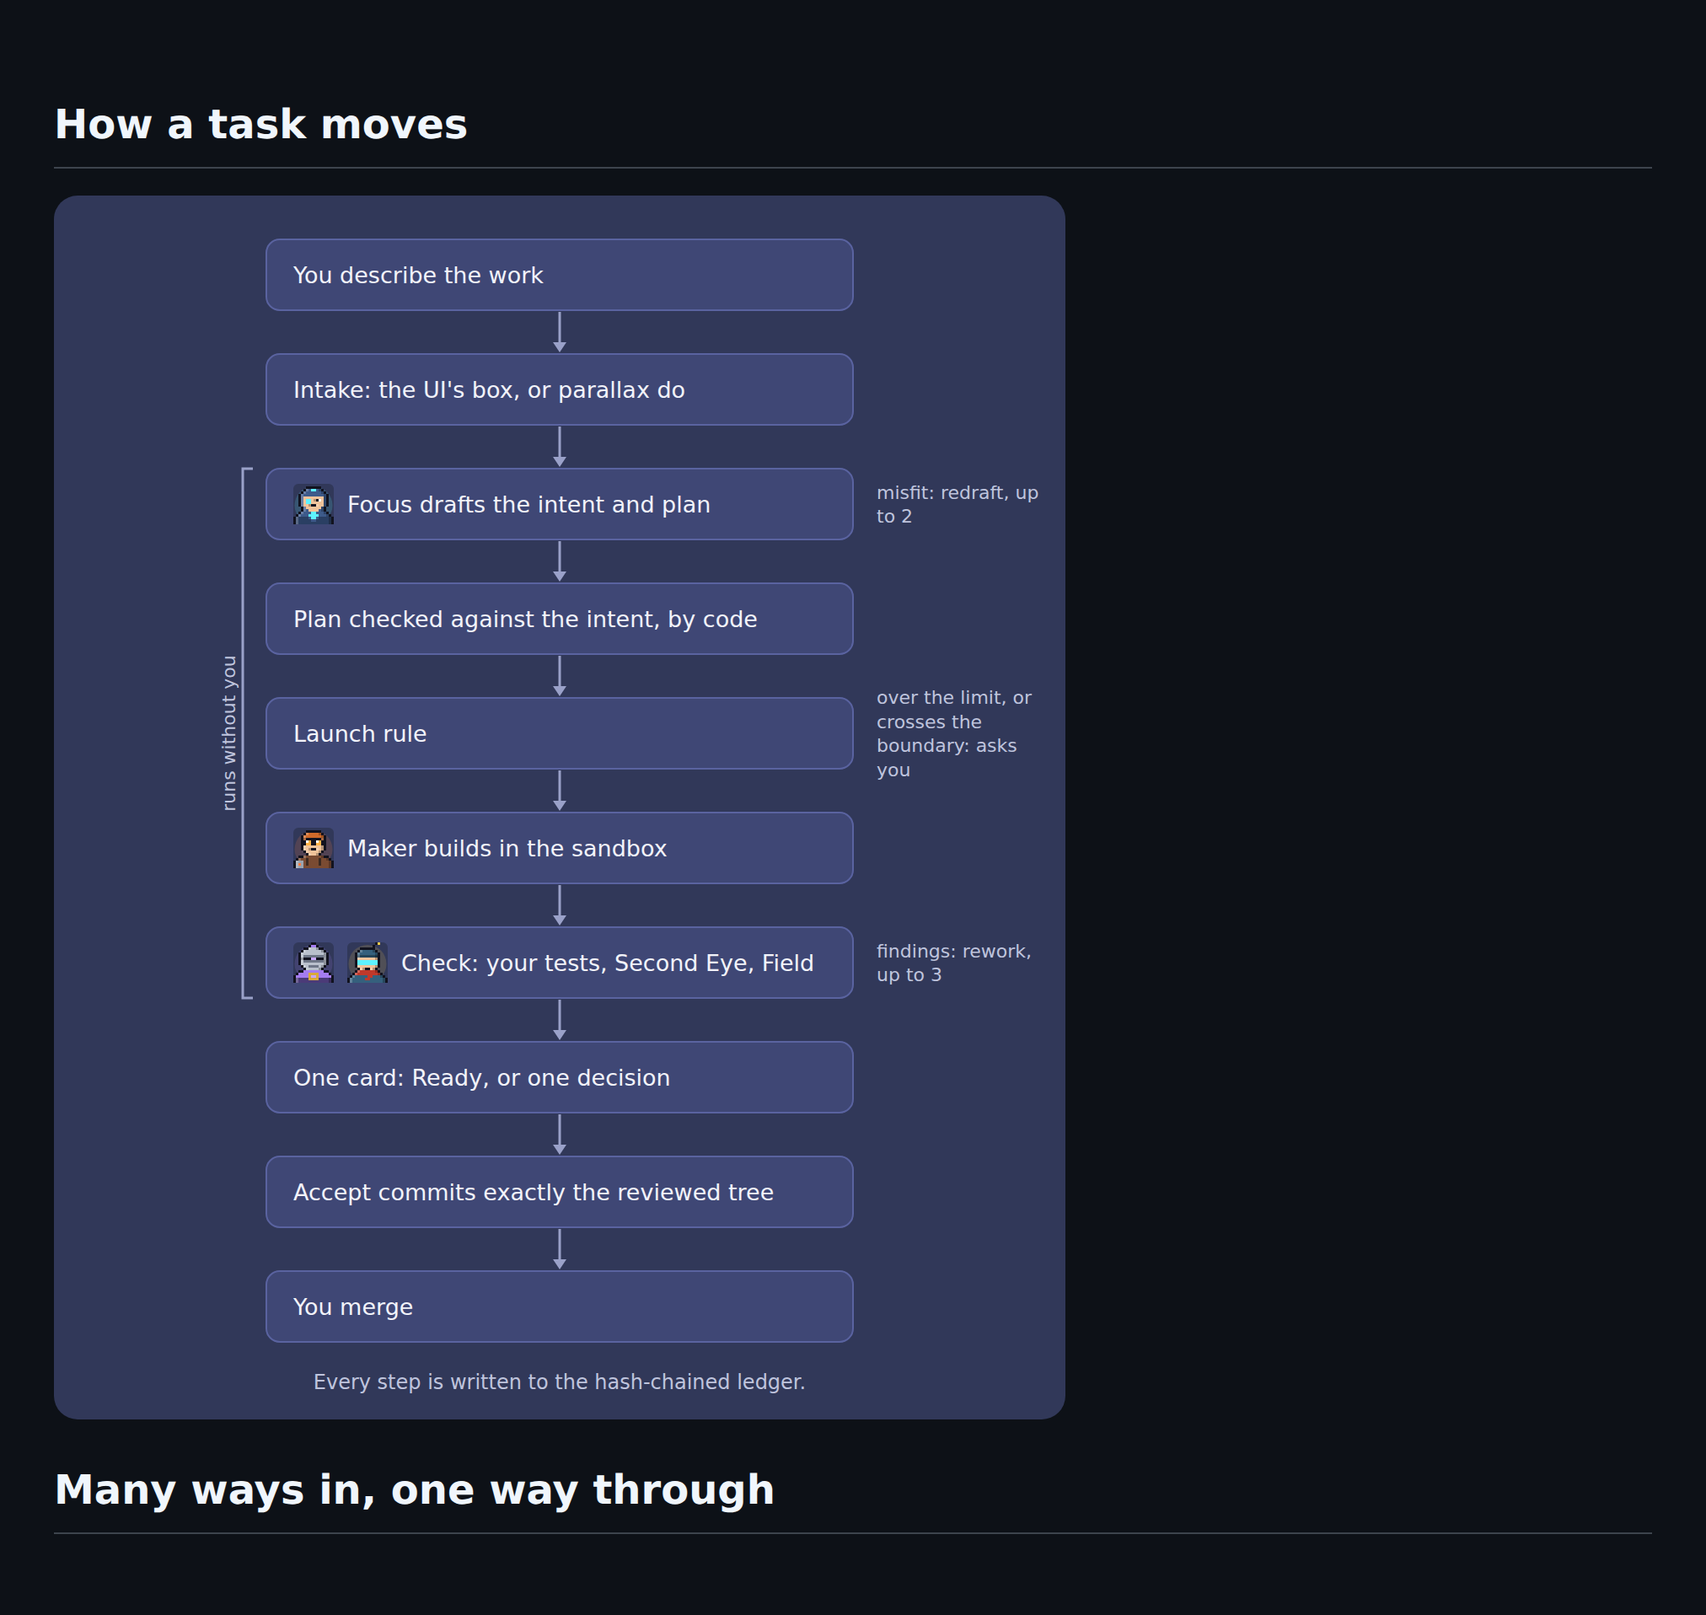
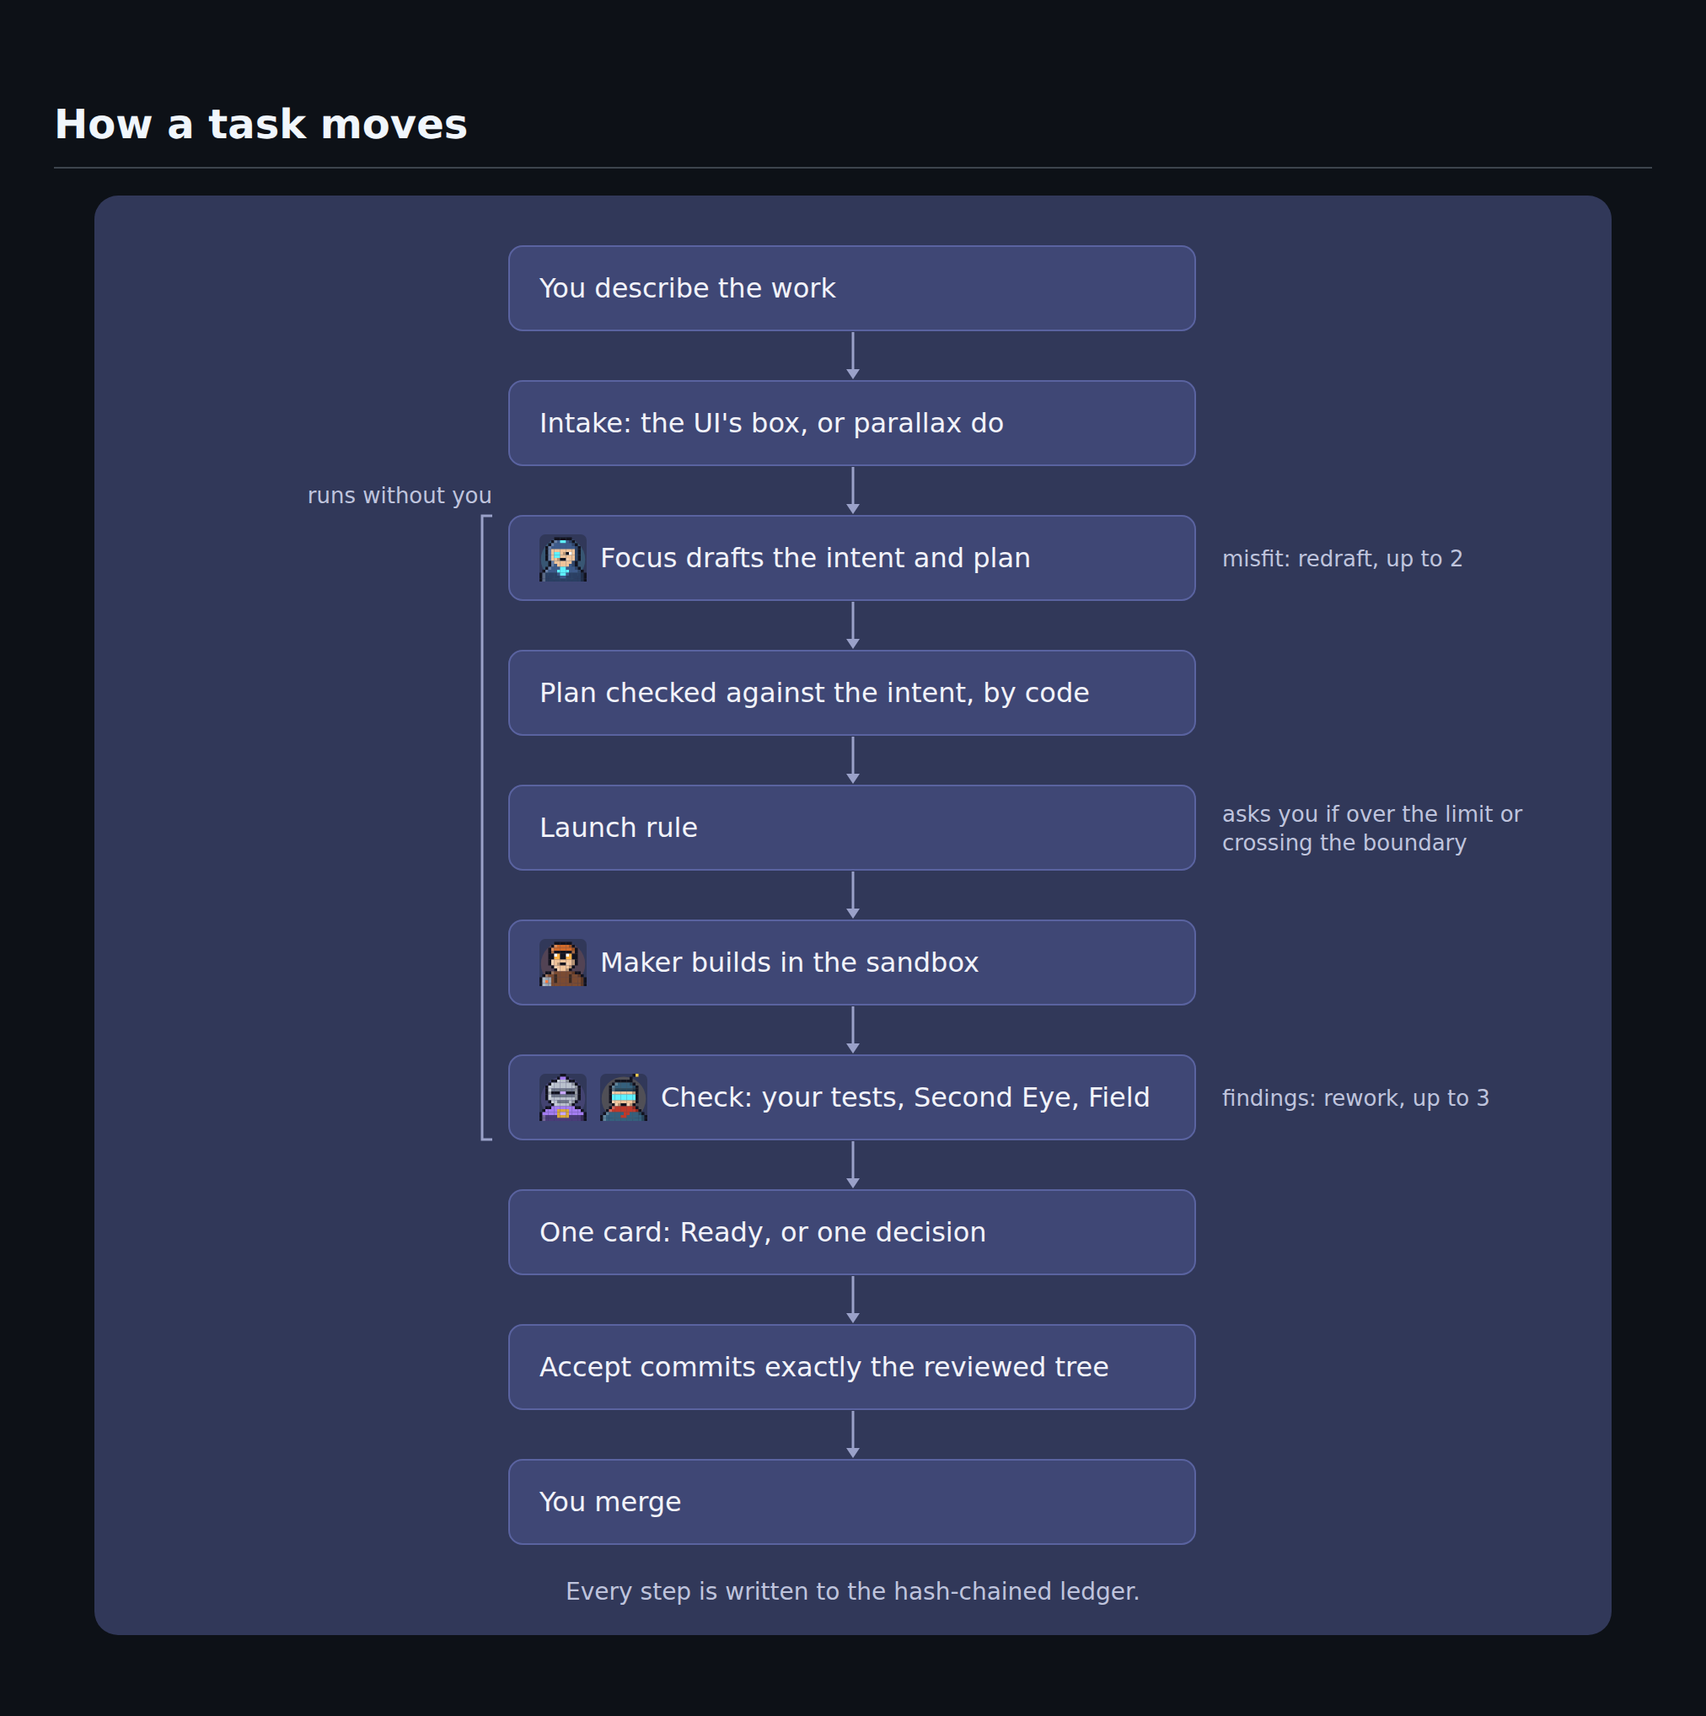
README brand pass: the flow at column width, the animated lockup, agents that take turns
The flow diagram is 900 wide with README-size text, centred in a paragraph so it scales down on a
phone; the side notes are shorter and fit one or two lines in a wider column; the bracket label is
horizontal at the top of the bracket. docs/brand/lockup-animated.svg is the drifting P with
"parallax" beside it in the UI header's own font stack and ink colors, sized from the text and
checked in a browser; it replaces the mark and the heading at the top of the README.
docs/brand/party-animated.svg has the four agents take turns in order, one at a time, with a
pause, and nothing moving under prefers-reduced-motion; the sentence under it says so. Every
image comes from brand.py through ASSETS; the tests check the files match, the reduced-motion
rules, that no two portraits move at once, that no note wraps past two lines, and that nothing
is rotated. Screenshots of the README's top, agents and flow sections at GitHub's width in both
schemes, and the flow at phone width, are under docs/ui-runs/final-ui/.

diff --git a/parallax/brand.py b/parallax/brand.py
@@ -184,7 +184,7 @@ FLOW_STEPS = [  # (text, portraits, side note)
     ("Intake: the UI's box, or parallax do", (), ""),
     ("Focus drafts the intent and plan", ("focus",), "misfit: redraft, up to 2"),
     ("Plan checked against the intent, by code", (), ""),
-    ("Launch rule", (), "over the limit, or crosses the boundary: asks you"),
+    ("Launch rule", (), "asks you if over the limit or crossing the boundary"),
     ("Maker builds in the sandbox", ("maker",), ""),
     ("Check: your tests, Second Eye, Field", ("second_eye", "field"), "findings: rework, up to 3"),
     ("One card: Ready, or one decision", (), ""),
@@ -218,14 +218,14 @@ def _wrap(text: str, size: float, width: float) -> list[str]:
 
 def flow_svg() -> str:
     """How a task moves, drawn: sized from the text, on the brand tile, portraits from the same data."""
-    W, size, note_size = 600, 13.5, 11
-    pad_x, box_h, gap, pic = 16, 42, 26, 24
+    W, size, note_size = 900, 16, 13   # the README column's width, and its body text size
+    pad_x, box_h, gap, pic = 18, 50, 30, 28
     widest = max(_text_width(text, size) + 2 * pad_x + len(pics) * (pic + 8) for text, pics, _ in FLOW_STEPS)
     box_w = int(widest + 0.5)
     col_x = (W - box_w) // 2
-    note_x = col_x + box_w + 14
-    note_w = W - note_x - 12
-    top = 26
+    note_x = col_x + box_w + 16
+    note_w = W - note_x - 10
+    top = 30
     parts = [f'<svg xmlns="http://www.w3.org/2000/svg" viewBox="0 0 {W} {{H}}" width="{W}" height="{{H}}" '
              f'role="img" aria-label="How a task moves: from your words through Focus, the plan check, the launch rule, '
              f'Maker, the check and one card to your accept and your merge, every step on the ledger" '
@@ -262,21 +262,85 @@ def flow_svg() -> str:
     # the bracket on the left for the steps that run without you, with a short label along it
     first, last = WITHOUT_YOU
     by1, by2 = centers[first] - box_h / 2, centers[last] + box_h / 2
-    bx = col_x - 14
+    bx = col_x - 16
     parts.append(f'<path class="bracket" d="M{bx + 6} {by1} H{bx} V{by2} H{bx + 6}" fill="none" stroke="{FLOW_COLORS["line"]}" stroke-width="1.5"/>')
-    lx, ly = bx - 8, (by1 + by2) / 2
-    parts.append(f'<text class="bracket-label" x="{lx}" y="{ly:.1f}" transform="rotate(-90 {lx} {ly:.1f})" text-anchor="middle" '
-                 f'dominant-baseline="central" font-size="{note_size}" fill="{FLOW_COLORS["muted"]}">runs without you</text>')
-    ly2 = y - gap + 24
+    parts.append(f'<text class="bracket-label" x="{bx + 6}" y="{by1 - 12:.1f}" text-anchor="end" dominant-baseline="central" '
+                 f'font-size="{note_size}" fill="{FLOW_COLORS["muted"]}">runs without you</text>')
+    ly2 = y - gap + 28
     parts.append(f'<text class="ledger" x="{W / 2}" y="{ly2}" text-anchor="middle" dominant-baseline="central" font-size="{note_size + 1}" '
                  f'fill="{FLOW_COLORS["muted"]}">Every step is written to the hash-chained ledger.</text>')
-    H = int(ly2 + 22)
+    H = int(ly2 + 26)
     parts.append("</svg>")
     return "".join(parts).replace("{H}", str(H))
 
 
+# the lockup: the animated P with the word beside it, in the UI's own wordmark font and color ----------------
+
+WORD_FONT = "ui-monospace, SFMono-Regular, Menlo, Consolas, monospace"  # app.css --mono, the header's .word
+WORD_INK = {"light": "#1c1c1a", "dark": "#ecebe6"}  # app.css --ink in each scheme, which .word inherits
+WORD_EM = 0.66  # a monospace advance is about 0.6em; the lockup test measures the real thing
+
+
+def lockup_svg() -> str:
+    """The animated P (as mark-animated.svg) and "parallax" beside it, centred on the P, sized from the text."""
+    size = 10.5
+    word_w = WORD_EM * size * len("parallax")
+    gap = 5
+    w = LOGO_W + gap + word_w + 2
+    height = 72
+    return (f'<svg xmlns="http://www.w3.org/2000/svg" viewBox="0 0 {w:.1f} {LOGO_H}" height="{height}" '
+            f'width="{round(height * w / LOGO_H)}" shape-rendering="crispEdges" role="img" aria-label="Parallax">'
+            + DRIFT
+            + f'<style>.word{{font-family:{WORD_FONT};font-weight:600;letter-spacing:0.01em;fill:{WORD_INK["light"]}}}'
+            f'@media (prefers-color-scheme: dark){{.word{{fill:{WORD_INK["dark"]}}}}}</style>'
+            + logo_body()
+            + f'<text class="word" x="{LOGO_W + gap}" y="{LOGO_H / 2}" dominant-baseline="central" font-size="{size}">parallax</text>'
+            "</svg>")
+
+
+TURN, PAUSE = 1.5, 1.5  # seconds each agent moves, and the rest with all four still
+
+
+def party_windows() -> list[tuple[float, float]]:
+    """(start, end) in seconds of each agent's turn, in order; they never overlap."""
+    return [(n * TURN, (n + 1) * TURN) for n in range(len(AGENTS))]
+
+
+def _turn_keyframes(name: str, start: float, end: float, total: float, prop: str, rest: str, moves: list[str], step: float) -> str:
+    """Keyframes that hold `rest` outside [start, end) and alternate `moves` inside it, every `step` seconds."""
+    frames, t = [f"0%{{{prop}:{rest}}}"], start
+    n = 0
+    while t < end - 1e-9:
+        frames.append(f"{t / total * 100:.3f}%{{{prop}:{moves[n % len(moves)]}}}")
+        t += step
+        n += 1
+    frames.append(f"{end / total * 100:.3f}%{{{prop}:{rest}}}")
+    frames.append(f"100%{{{prop}:{rest}}}")
+    return f"@keyframes {name}{{{''.join(frames)}}}"
+
+
+def party_animated_svg() -> str:
+    """party.svg where the agents take turns, in order, the way a task moves through them: one at a
+    time bobs one pixel in two steps and its glow letters pulse, then the next; a pause; repeat; and
+    with prefers-reduced-motion nothing moves."""
+    total = len(AGENTS) * TURN + PAUSE
+    css = []
+    for n, (start, end) in enumerate(party_windows()):
+        css.append(_turn_keyframes(f"bob{n}", start, end, total, "transform", "translateY(0)", ["translateY(-1px)", "translateY(0)"], 0.3))
+        css.append(_turn_keyframes(f"glow{n}", start, end, total, "opacity", "1", ["0.45", "1"], 0.375))
+        css.append(f".a{n} .bust{{animation:bob{n} {total}s steps(1,end) infinite}}.a{n} .glow{{animation:glow{n} {total}s steps(1,end) infinite}}")
+    css.append("@media (prefers-reduced-motion: reduce){.bust,.glow{animation:none}}")
+    svg = party_svg().replace("<style>", "<style>" + "".join(css), 1)
+    for n, key in enumerate(AGENTS):
+        body = portrait_body(key)
+        assert body in svg
+        svg = svg.replace(body, f'<g class="agent a{n}"><g class="bust">{body}</g></g>', 1)
+    return svg
+
+
 ASSETS = {"logo.svg": lambda: logo_svg(word=True), "mark.svg": lambda: logo_svg(), "party.svg": party_svg,
-          "mark-animated.svg": lambda: logo_svg(animated=True), "flow.svg": flow_svg}
+          "mark-animated.svg": lambda: logo_svg(animated=True), "flow.svg": flow_svg,
+          "lockup-animated.svg": lockup_svg, "party-animated.svg": party_animated_svg}
 
 
 def write_assets(folder: Path) -> list[Path]:

diff --git a/tests/test_brand.py b/tests/test_brand.py
@@ -94,10 +94,12 @@ def test_the_readme_images_and_the_ui_come_from_the_same_data():
         assert bundle["agents"][key]["svg"] == brand.portrait_body(key)
         assert bundle["agents"][key]["svg"] in brand.party_svg()
     assert set(bundle["agents"]) == set(brand.AGENTS)
-    assert set(brand.ASSETS) == {"logo.svg", "mark.svg", "party.svg", "mark-animated.svg", "flow.svg"}
+    assert set(brand.ASSETS) == {"logo.svg", "mark.svg", "party.svg", "mark-animated.svg", "flow.svg",
+                                 "lockup-animated.svg", "party-animated.svg"}
     readme = (ROOT / "README.md").read_text(encoding="utf-8")
-    assert "docs/brand/mark-animated.svg" in readme and "docs/brand/party.svg" in readme and "docs/brand/flow.svg" in readme
-    assert "```mermaid" not in readme
+    for used in ("docs/brand/lockup-animated.svg", "docs/brand/party-animated.svg", "docs/brand/flow.svg"):
+        assert used in readme, used
+    assert "```mermaid" not in readme and "# Parallax\n" not in readme  # the lockup is the heading
     social = (ROOT / "docs" / "brand" / "social.html").read_text(encoding="utf-8")
     assert brand.logo_body() in social and "Agents do the work. You make the calls." in social
 
@@ -129,3 +131,41 @@ def test_stages_follow_the_ledger():
     assert [(s["agent"], s["state"]) for s in live.stages(with_field, waiting=False)][-1] == ("field", "working")
     assert live.agent_of("Maker reworking (1 of 3)") == "maker" and live.agent_of("running the plan's tests") is None
     assert not re.search(r"drafter|checker|tester", " ".join(a["name"] for a in brand.AGENTS.values()), re.I)
+
+
+def test_the_lockup_is_the_animated_mark_with_the_uis_wordmark():
+    svg = brand.lockup_svg()
+    assert brand.logo_body() in svg and brand.DRIFT in svg  # the P and its drift, exactly as mark-animated.svg
+    assert "@media (prefers-reduced-motion: reduce){.l1,.l2{animation:none}}" in svg
+    assert 'font-family:ui-monospace, SFMono-Regular, Menlo, Consolas, monospace;font-weight:600' in svg  # app.css --mono, .word
+    assert "fill:#1c1c1a" in svg and "@media (prefers-color-scheme: dark){.word{fill:#ecebe6}}" in svg  # app.css --ink
+    assert 'aria-label="Parallax"' in svg
+    for name in ("mark.svg", "mark-animated.svg", "logo.svg"):
+        assert "parallax</text>" not in (ROOT / "docs" / "brand" / name).read_text() or name == "logo.svg"
+
+
+def test_the_party_takes_turns_and_only_one_agent_moves_at_a_time():
+    svg = brand.party_animated_svg()
+    assert "@media (prefers-reduced-motion: reduce){.bust,.glow{animation:none}}" in svg
+    windows = brand.party_windows()
+    assert len(windows) == 4 and all(a[1] <= b[0] for a, b in zip(windows, windows[1:]))  # in order, never overlapping
+    total = 4 * brand.TURN + brand.PAUSE
+    # from the keyframes themselves: every moment at which an agent is not at rest belongs to one agent only
+    moving: dict[int, list[float]] = {}
+    for n in range(4):
+        for prop, rest in (("bob", "translateY(0)"), ("glow", "1")):
+            block = re.search(rf"@keyframes {prop}{n}\{{(.*?)\}}(?=@keyframes|\.a|$)", svg).group(1)
+            frames = re.findall(r"([\d.]+)%\{[a-z]+:([^}]+)\}", block)
+            moving.setdefault(n, [])
+            for pct, value in frames:
+                if value != rest:
+                    moving[n].append(float(pct) / 100 * total)
+    for a in range(4):
+        for b in range(a + 1, 4):
+            assert not (set(round(x, 3) for x in moving[a]) & set(round(x, 3) for x in moving[b])), (a, b)
+        lo, hi = windows[a]
+        assert all(lo <= x < hi for x in moving[a]), f"agent {a} moves outside its turn"
+        assert moving[a], f"agent {a} never moves"
+    assert svg.count('class="agent a') == 4 and all(f".a{n} .bust{{animation:bob{n}" in svg for n in range(4))
+    assert "steps(1,end)" in svg
+    assert brand.party_svg() != svg and all(brand.portrait_body(k) in svg for k in brand.AGENTS)

diff --git a/tests/test_flow_diagram.py b/tests/test_flow_diagram.py
@@ -1,5 +1,6 @@
 """docs/brand/flow.svg, rendered in Chromium: every text fits its box with room, nothing overlaps."""
 import os
+import re
 from pathlib import Path
 
 import pytest
@@ -84,16 +85,49 @@ def test_nothing_overlaps_except_a_portrait_on_its_own_box(measured):
             assert not overlap(a, b), f"{name_a} overlaps {name_b}: {a} vs {b}"
 
 
+def test_notes_stay_on_at_most_two_lines_and_nothing_is_rotated():
+    svg = brand.flow_svg()
+    assert "rotate(" not in svg, "a label is rotated"
+    for m in re.finditer(r'<text class="note"[^>]*>(.*?)</text>', svg):
+        lines = m.group(1).count("<tspan")
+        assert lines <= 2, f"a side note wraps past two lines: {re.sub('<[^>]+>', '', m.group(1))!r}"
+    assert 'class="bracket-label"' in svg and 'text-anchor="end"' in svg
+
+
+def test_the_lockup_word_fits_the_image(measured_lockup):
+    word, image = measured_lockup["word"], measured_lockup["image"]
+    assert inside(word, image, 1), f"the word spills the lockup: {word} in {image}"
+    assert not overlap(word, measured_lockup["p"]), "the word runs into the P"
+    assert abs((word["t"] + word["b"]) / 2 - (image["t"] + image["b"]) / 2) < 4, "the word isn't centred on the P"
+
+
+@pytest.fixture(scope="module")
+def measured_lockup():
+    svg = (ROOT / "docs" / "brand" / "lockup-animated.svg").read_text(encoding="utf-8")
+    assert svg == brand.lockup_svg() + "\n"
+    with sync_playwright() as p:
+        try:
+            b = p.chromium.launch(executable_path=os.environ.get("PARALLAX_BROWSER") or None)
+        except Exception as err:
+            pytest.skip(f"Chromium can't start: {str(err).splitlines()[0]}")
+        pg = b.new_page(viewport={"width": 800, "height": 300})
+        pg.set_content(f'<html><body style="margin:0;padding:24px;background:#fff">{svg}</body></html>')
+        data = pg.evaluate("""() => { const svg = document.querySelector('svg');
+            const box = e => { const r = e.getBoundingClientRect(); return {l: r.left, t: r.top, r: r.right, b: r.bottom}; };
+            return {image: box(svg), word: box(svg.querySelector('.word')), p: box(svg.querySelector('.l1'))}; }""")
+        b.close()
+    return data
+
+
 def test_notes_sit_beside_their_boxes():
     """A side note is vertically centered on the box it belongs to, in the column to the right."""
     svg = brand.flow_svg()
-    import re
     boxes = {m.group(1): (float(m.group(2)), float(m.group(3))) for m in
              re.finditer(r'data-step="(\d+)"><rect class="box" x="([\d.]+)" y="([\d.]+)" width="([\d.]+)" height="([\d.]+)"', svg)}
     for m in re.finditer(r'<text class="note" data-step="(\d+)" x="([\d.]+)" y="([\d.]+)"', svg):
         step, x, y = m.group(1), float(m.group(2)), float(m.group(3))
         bx, by = boxes[step]
-        assert x > bx + 300, "the note is right of its box"
+        assert x > bx + 400, "the note is right of its box"
         lines = svg[m.end():].split("</text>", 1)[0].count("<tspan")
-        centre = y + (lines - 1) * 11 * 1.3 / 2
-        assert abs(centre - (by + 21)) < 1.0, f"note {step} isn't centred on its box"
+        centre = y + (lines - 1) * 13 * 1.3 / 2
+        assert abs(centre - (by + 25)) < 1.0, f"note {step} isn't centred on its box"

diff --git a/README.md b/README.md
@@ -1,6 +1,4 @@
-<p align="center"><img src="docs/brand/mark-animated.svg" alt="" width="70" height="80"></p>
-
-# Parallax
+<p align="center"><img src="docs/brand/lockup-animated.svg" alt="Parallax" height="72"></p>
 
 [![tests](https://github.com/mpwilso/parallax/actions/workflows/tests.yml/badge.svg?branch=master)](https://github.com/mpwilso/parallax/actions/workflows/tests.yml)
 
@@ -25,13 +23,13 @@ A local tool that runs Claude Code agents on your repo inside a sandbox, checks 
 
 ## The agents
 
-<img src="docs/brand/party.svg" alt="Focus, Maker, Second Eye and Field" width="450">
+<img src="docs/brand/party-animated.svg" alt="Focus, Maker, Second Eye and Field" width="450">
 
-**Focus** drafts the intent and plan. **Maker** builds in the sandbox. **Second Eye** is the blind checker: it sees only the result, never the making. **Field** is the UI tester, which uses your app in a real browser and leaves tests behind. In the UI a portrait moves only while its agent is working on that task; everything else is still.
+**Focus** drafts the intent and plan. **Maker** builds in the sandbox. **Second Eye** is the blind checker: it sees only the result, never the making. **Field** is the UI tester, which uses your app in a real browser and leaves tests behind. Here they take turns the way a task moves through them; in the UI a portrait moves only while its agent is working on that task, and everything else is still.
 
 ## How a task moves
 
-<img src="docs/brand/flow.svg" alt="How a task moves: your words go through Focus, the plan check by code, the launch rule, Maker in the sandbox and the check by your tests, Second Eye and Field, then come back as one card for your accept and your merge, with every step on the hash-chained ledger" width="600">
+<p align="center"><img src="docs/brand/flow.svg" width="900" alt="How a task moves: your words go through Focus, the plan check by code, the launch rule, Maker in the sandbox and the check by your tests, Second Eye and Field, then come back as one card for your accept and your merge, with every step on the hash-chained ledger"></p>
 
 ## Many ways in, one way through
 
